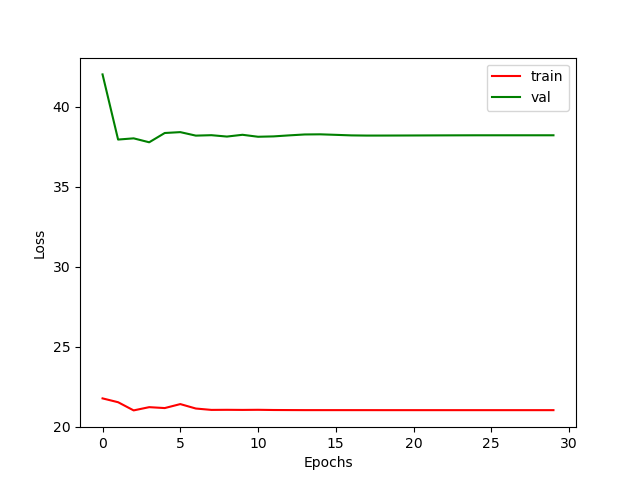
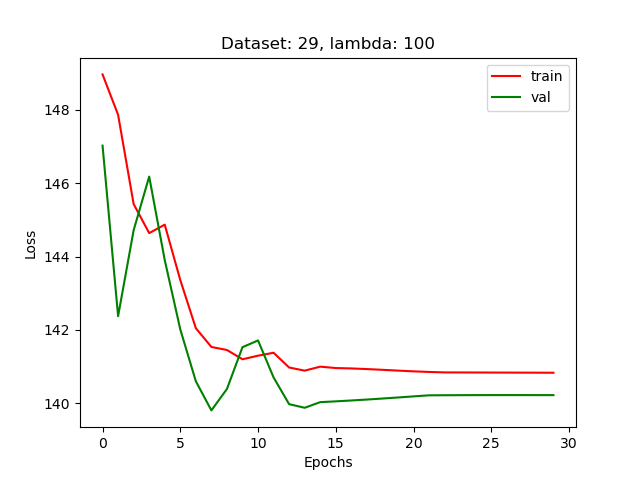
almost final pipeline

diff --git a/models/train.py b/models/train.py
@@ -6,6 +6,7 @@ from torch.optim.lr_scheduler import ReduceLROnPlateau
 from tqdm import tqdm
 import matplotlib.pyplot as plt
 import random
+from math import inf
 
 import sys
 sys.path.append("..")
@@ -63,7 +64,7 @@ dl_val = DataLoader(validation_, batch_size=batch_size, num_workers=4)
 
 # dl_train, dl_val = dl, dl
 
-epoch, train_losses, val_losses = 0, [], []
+epoch, train_losses, val_losses, best_val_loss = 0, [], [], inf
 for epoch in tqdm(range(num_epochs), desc=f"on epoch {epoch}"):
 
     for dataloader, phase in [(dl_train, 'train'),(dl_val, 'val')]:
@@ -100,11 +101,15 @@ for epoch in tqdm(range(num_epochs), desc=f"on epoch {epoch}"):
                 # val_losses.append()
                 scheduler.step(loss)
         
-        tqdm.write(f'phase: {phase}, loss: {phase_loss:.3f}, word_Loss: {phase_word_loss:.3f}, img_classification_loss: {phase_image_loss:.3f}')
+        tqdm.write(f'phase: {phase}, loss: {phase_loss / len(dataloader.dataset):.3f}, word_Loss: {phase_word_loss / len(dataloader.dataset):.3f}, img_classification_loss: {phase_image_loss / len(dataloader.dataset):.3f}')
         if phase == 'train':
             train_losses.append(phase_loss / len(dataloader.dataset))
         else:
             val_losses.append(phase_loss / len(dataloader.dataset))
+            if best_val_loss > phase_loss / len(dataloader.dataset):
+                best_val_loss = phase_loss / len(dataloader.dataset)
+                torch.save(model.state_dict(), 'weights.pth')
+            tqdm.write(f'Val Loss: {best_val_loss}, Saving weights....')
 
     # print(f' Ans: {batch["ans"].detach().cpu().tolist()}, ques: {batch["ques"].shape}, out: {out.shape}, pred: {pred.detach().cpu().tolist()}')
 
@@ -112,6 +117,7 @@ for epoch in tqdm(range(num_epochs), desc=f"on epoch {epoch}"):
     plt.clf()
     plt.plot(train_losses, color = 'r', label = 'train')
     plt.plot(val_losses, color = 'g', label = 'val')
+    plt.title(f'Dataset: {datasetLength}, lambda: {lambda_}')
     plt.legend()
     plt.xlabel('Epochs')
     plt.ylabel('Loss')

diff --git a/utils/dataset.py b/utils/dataset.py
@@ -47,7 +47,7 @@ class MultiImageVQADataset(Dataset):
         self.tokenizer = BertTokenizer.from_pretrained('bert-base-uncased')
 
     def __len__(self):
-        return self.length // 1000
+        return self.length // 50
 
     def __getitem__(self, idx):
 
